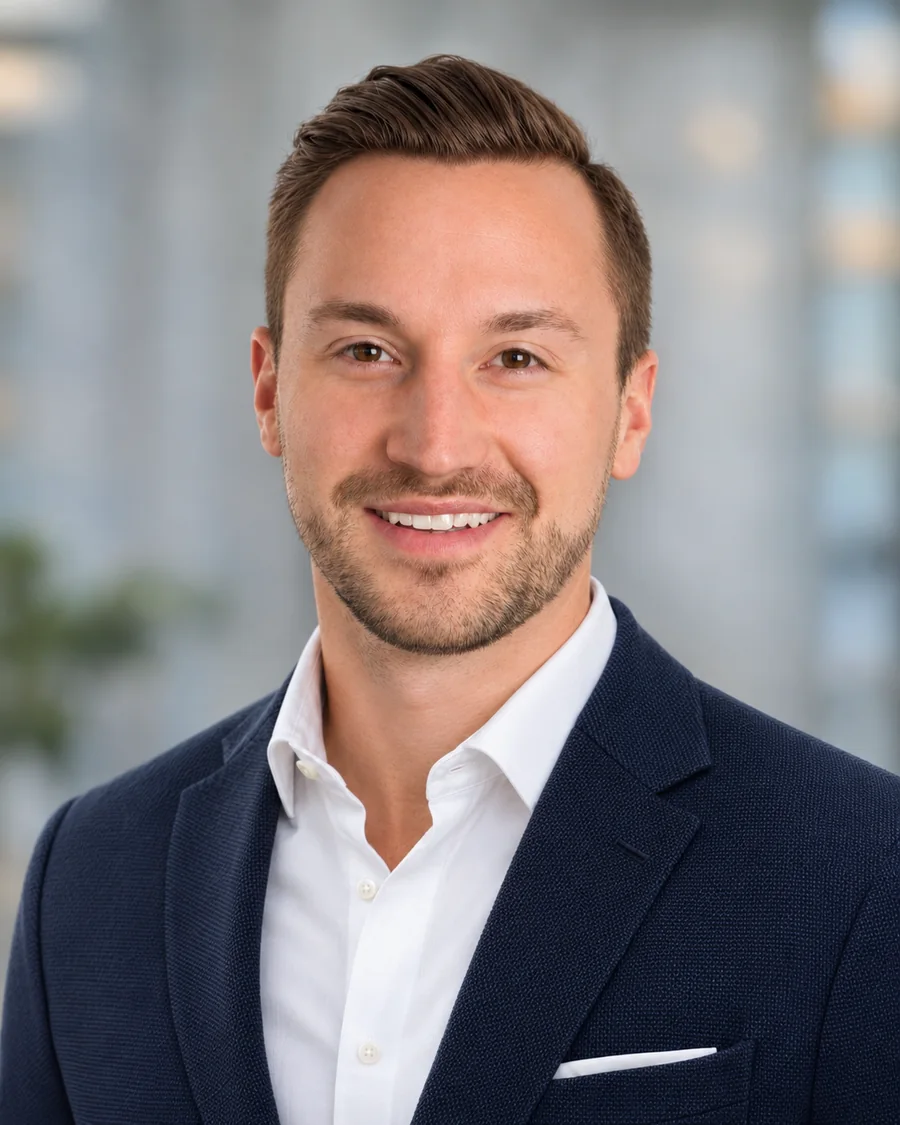
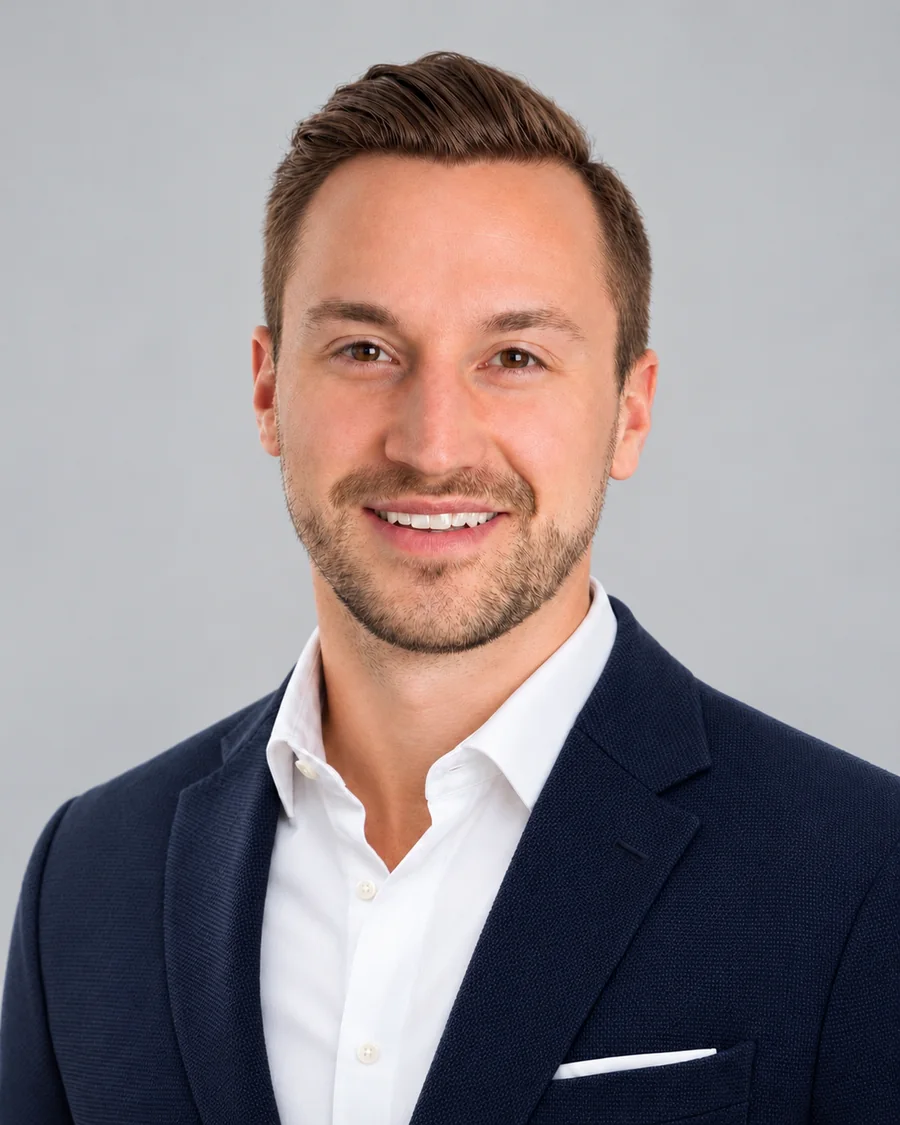
About page: update headshot (grey background)
Claude-Session: https://claude.ai/code/session_013t7RMRYrLPNuaSVDoiEDWE

diff --git a/about.html b/about.html
@@ -1,3 +1,3 @@
-<!doctype html><html lang="en-CA"><head><meta charset="utf-8"><meta name="viewport" content="width=device-width,initial-scale=1"><title>About Robert Johnson | GTA Industrial Real Estate | RGJ Commercial</title><meta name="description" content="Robert Johnson is a GTA industrial sale and leasing specialist with Lennard Commercial Realty, Brokerage. In commercial real estate since 2014, with 200+ transactions, over 2 million square feet and more than $1 billion in value closed."><link rel="preconnect" href="https://fonts.googleapis.com"><link rel="preconnect" href="https://fonts.gstatic.com" crossorigin><link href="https://fonts.googleapis.com/css2?family=DM+Sans:wght@400;500;600;700&family=Orbitron:wght@700;800;900&display=swap" rel="stylesheet"><link rel="stylesheet" href="styles.css"><link rel="canonical" href="https://rgjcommercial.com/about.html"><meta property="og:site_name" content="RGJ Commercial"><meta property="og:locale" content="en_CA"><script type="application/ld+json">{"@context": "https://schema.org", "@type": "ProfilePage", "url": "https://rgjcommercial.com/about.html", "name": "About Robert Johnson | GTA Industrial Real Estate | RGJ Commercial", "inLanguage": "en-CA", "mainEntity": {"@type": "Person", "name": "Robert Johnson", "jobTitle": "Vice President, Sales Representative", "worksFor": {"@type": "RealEstateAgent", "name": "Lennard Commercial Realty, Brokerage", "address": {"@type": "PostalAddress", "streetAddress": "209–1 Yorkdale Road", "addressLocality": "Toronto", "addressRegion": "ON", "postalCode": "M6A 3A1", "addressCountry": "CA"}}, "email": "rjohnson@lennard.com", "telephone": "+1-647-328-4929", "areaServed": ["Mississauga", "Brampton", "Etobicoke", "Oakville", "Burlington", "Vaughan", "Greater Toronto Area"], "knowsAbout": ["Industrial leasing", "Industrial sales", "Tenant representation", "Sale-leaseback", "Industrial investment"], "sameAs": ["https://www.linkedin.com/in/commercialrealestategta/"], "image": "https://rgjcommercial.com/robert-johnson-headshot.webp"}}</script><link rel="stylesheet" href="mobile.css"><script src="mobile-nav.js" defer></script><style>.timeline{display:grid;gap:0;margin:30px 0;max-width:900px}.timeline div{display:grid;grid-template-columns:150px 1fr;gap:20px;padding:20px 0;border-top:1px solid #d3c5b8}.timeline b{color:#925b36;font-size:14px;letter-spacing:.04em}.timeline h3{margin:0 0 6px;font-size:19px}.timeline p{margin:0}.stat-row{display:grid;grid-template-columns:repeat(4,minmax(0,1fr));gap:18px;margin:30px 0}.stat-row div{background:#202328;color:#F4F1ED;padding:24px;border-top:3px solid #B17B56}.stat-row strong{display:block;font-family:Georgia,serif;font-size:34px;color:#F4F1ED}.stat-row span{font-size:13px;color:#d9cfc4}@media(max-width:700px){.timeline div{grid-template-columns:1fr;gap:6px}.stat-row{grid-template-columns:1fr 1fr}}.deals{width:100%;max-width:980px;border-collapse:collapse;margin:26px 0;background:#fff}.deals th,.deals td{padding:16px 18px;border-bottom:1px solid #e2d8cd;text-align:left;font-size:15px}.deals thead th{background:#202328;color:#F4F1ED;font-size:12px;letter-spacing:.08em;text-transform:uppercase}.deals tbody th span{display:block;font-weight:400;color:#575D64;font-size:13px;margin-top:3px}.deals td{white-space:nowrap}.deal-tag{display:inline-block;margin:2px 4px 2px 0;padding:5px 10px;border:1px solid #B17B56;color:#925b36;font-size:12px;letter-spacing:.04em;text-transform:uppercase}@media(max-width:600px){.deals th,.deals td{padding:12px 10px;font-size:14px}}.more-deals{max-width:980px;margin:-6px 0 28px}.more-deals h3{font-size:13px;letter-spacing:.08em;text-transform:uppercase;color:#575D64;margin:0 0 8px}.more-deals ul{list-style:none;margin:0;padding:0}.more-deals li{font-size:14px;color:#575D64;padding:7px 0;border-bottom:1px solid #ddd2c6}.more-deals strong{color:#202328;font-weight:600}.deal-carousel{container-type:inline-size;overflow:hidden;max-width:1180px;margin:28px 0 22px;-webkit-mask-image:linear-gradient(90deg,transparent,#000 4%,#000 96%,transparent);mask-image:linear-gradient(90deg,transparent,#000 4%,#000 96%,transparent)}.deal-track{--per:3;display:flex;list-style:none;margin:0;padding:0;width:max-content;animation:deal-roll 132s linear infinite}.deal-carousel:hover .deal-track,.deal-carousel:focus-within .deal-track{animation-play-state:paused}.deal-card{flex:0 0 calc((100cqw - (var(--per) - 1) * 16px) / var(--per));box-sizing:border-box;margin-right:16px;background:#fff;border-top:3px solid #B17B56;padding:24px 22px 22px;min-height:190px;display:flex;flex-direction:column}.deal-size{font-family:Georgia,serif;font-size:clamp(28px,3vw,38px);color:#202328;letter-spacing:-.02em;line-height:1.1}.deal-size small{font-size:.45em;letter-spacing:0;color:#575D64}.deal-card h3{font-size:16px;margin:16px 0 4px;line-height:1.35}.deal-card p{margin:0 0 16px;font-size:13px;color:#575D64}.deal-tags{margin-top:auto}@keyframes deal-roll{from{transform:translateX(0)}to{transform:translateX(-50%)}}@media(max-width:900px){.deal-track{--per:2;animation-duration:110s}}@media(max-width:520px){.deal-track{--per:1;animation-duration:100s}.deal-card{flex-basis:calc(86cqw)}}@media(prefers-reduced-motion:reduce){.deal-carousel{overflow-x:auto;-webkit-mask-image:none;mask-image:none}.deal-track{animation:none}.deal-card[aria-hidden]{display:none}}.deal-featured{list-style:none;margin:28px 0 8px;padding:0;display:grid;grid-template-columns:repeat(4,minmax(0,1fr));gap:16px;max-width:1180px}.deal-featured .deal-card{margin:0;background:#202328;border-top-color:#B17B56}.deal-featured .deal-size{color:#F4F1ED;font-size:clamp(30px,3.2vw,42px)}.deal-featured .deal-size small,.deal-featured p{color:#d4cbc2}.deal-featured h3{color:#F4F1ED}.deal-featured .deal-tag{color:#e0b593;border-color:#B17B56}.deal-more-head{font-size:13px;letter-spacing:.08em;text-transform:uppercase;color:#575D64;margin:30px 0 0}@media(max-width:900px){.deal-featured{grid-template-columns:repeat(2,minmax(0,1fr))}}@media(max-width:520px){.deal-featured{grid-template-columns:1fr}}.about-hero{display:grid;grid-template-columns:minmax(0,1.5fr) minmax(240px,.8fr);gap:56px;align-items:center}.about-portrait{margin:0;position:relative;isolation:isolate;max-width:400px;justify-self:end;width:100%}.about-portrait img{display:block;width:100%;height:auto;aspect-ratio:4/5;object-fit:cover;object-position:center 20%;border-bottom:4px solid #B17B56}.about-portrait:before{content:"";position:absolute;inset:16px -16px -16px 16px;border:1px solid rgba(177,123,86,.55);z-index:-1}@media(max-width:860px){.about-hero{grid-template-columns:1fr;gap:34px}.about-portrait{justify-self:start;max-width:300px;order:-1}.about-portrait:before{display:none}}</style></head><body><header class="site-header"><a class="brand-lockup" href="index.html" aria-label="RGJ Commercial home"><span class="brand-symbol" aria-hidden="true"><i></i><i></i></span><span class="brand-initials">RGJ</span><span class="brand-rule"></span><span class="brand-descriptor"><strong>COMMERCIAL</strong><small>REAL ESTATE ADVISORY</small></span></a><nav aria-label="Main navigation"><a href="index.html">Home</a><a href="services.html">Services</a><a href="properties.html">Search Properties</a><a href="insights.html">Market Insight</a><a href="about.html" class="active" aria-current="page">About</a><a href="contact.html">Contact</a><a href="subscribe.html">Subscribe</a></nav></header><main><section class="industrial-hero about-hero"><div class="about-hero-text"><div class="eyebrow">About RGJ Commercial</div><h1>Robert Johnson</h1><p><strong>GTA Industrial Sale &amp; Leasing Specialist</strong> · Vice President, Sales Representative, Lennard Commercial Realty, Brokerage</p><p>Since 2014, Rob has helped business owners, tenants, landlords and investors buy, sell and lease industrial buildings across the Greater Toronto Area, completing more than 200 transactions totalling over 2 million square feet and more than $1 billion in value. RGJ Commercial is his advisory practice: one experienced advisor, personally involved from the first conversation to the closing, backed by Lennard's research and reach.</p><a class="cta" href="contact.html">Start a Conversation →</a></div><figure class="about-portrait"><img src="robert-johnson-headshot.webp" width="900" height="1125" alt="Robert Johnson, GTA industrial sale and leasing specialist, RGJ Commercial" fetchpriority="high"></figure></section>
+<!doctype html><html lang="en-CA"><head><meta charset="utf-8"><meta name="viewport" content="width=device-width,initial-scale=1"><title>About Robert Johnson | GTA Industrial Real Estate | RGJ Commercial</title><meta name="description" content="Robert Johnson is a GTA industrial sale and leasing specialist with Lennard Commercial Realty, Brokerage. In commercial real estate since 2014, with 200+ transactions, over 2 million square feet and more than $1 billion in value closed."><link rel="preconnect" href="https://fonts.googleapis.com"><link rel="preconnect" href="https://fonts.gstatic.com" crossorigin><link href="https://fonts.googleapis.com/css2?family=DM+Sans:wght@400;500;600;700&family=Orbitron:wght@700;800;900&display=swap" rel="stylesheet"><link rel="stylesheet" href="styles.css"><link rel="canonical" href="https://rgjcommercial.com/about.html"><meta property="og:site_name" content="RGJ Commercial"><meta property="og:locale" content="en_CA"><script type="application/ld+json">{"@context": "https://schema.org", "@type": "ProfilePage", "url": "https://rgjcommercial.com/about.html", "name": "About Robert Johnson | GTA Industrial Real Estate | RGJ Commercial", "inLanguage": "en-CA", "mainEntity": {"@type": "Person", "name": "Robert Johnson", "jobTitle": "Vice President, Sales Representative", "worksFor": {"@type": "RealEstateAgent", "name": "Lennard Commercial Realty, Brokerage", "address": {"@type": "PostalAddress", "streetAddress": "209–1 Yorkdale Road", "addressLocality": "Toronto", "addressRegion": "ON", "postalCode": "M6A 3A1", "addressCountry": "CA"}}, "email": "rjohnson@lennard.com", "telephone": "+1-647-328-4929", "areaServed": ["Mississauga", "Brampton", "Etobicoke", "Oakville", "Burlington", "Vaughan", "Greater Toronto Area"], "knowsAbout": ["Industrial leasing", "Industrial sales", "Tenant representation", "Sale-leaseback", "Industrial investment"], "sameAs": ["https://www.linkedin.com/in/commercialrealestategta/"], "image": "https://rgjcommercial.com/robert-johnson-headshot.webp"}}</script><link rel="stylesheet" href="mobile.css"><script src="mobile-nav.js" defer></script><style>.timeline{display:grid;gap:0;margin:30px 0;max-width:900px}.timeline div{display:grid;grid-template-columns:150px 1fr;gap:20px;padding:20px 0;border-top:1px solid #d3c5b8}.timeline b{color:#925b36;font-size:14px;letter-spacing:.04em}.timeline h3{margin:0 0 6px;font-size:19px}.timeline p{margin:0}.stat-row{display:grid;grid-template-columns:repeat(4,minmax(0,1fr));gap:18px;margin:30px 0}.stat-row div{background:#202328;color:#F4F1ED;padding:24px;border-top:3px solid #B17B56}.stat-row strong{display:block;font-family:Georgia,serif;font-size:34px;color:#F4F1ED}.stat-row span{font-size:13px;color:#d9cfc4}@media(max-width:700px){.timeline div{grid-template-columns:1fr;gap:6px}.stat-row{grid-template-columns:1fr 1fr}}.deals{width:100%;max-width:980px;border-collapse:collapse;margin:26px 0;background:#fff}.deals th,.deals td{padding:16px 18px;border-bottom:1px solid #e2d8cd;text-align:left;font-size:15px}.deals thead th{background:#202328;color:#F4F1ED;font-size:12px;letter-spacing:.08em;text-transform:uppercase}.deals tbody th span{display:block;font-weight:400;color:#575D64;font-size:13px;margin-top:3px}.deals td{white-space:nowrap}.deal-tag{display:inline-block;margin:2px 4px 2px 0;padding:5px 10px;border:1px solid #B17B56;color:#925b36;font-size:12px;letter-spacing:.04em;text-transform:uppercase}@media(max-width:600px){.deals th,.deals td{padding:12px 10px;font-size:14px}}.more-deals{max-width:980px;margin:-6px 0 28px}.more-deals h3{font-size:13px;letter-spacing:.08em;text-transform:uppercase;color:#575D64;margin:0 0 8px}.more-deals ul{list-style:none;margin:0;padding:0}.more-deals li{font-size:14px;color:#575D64;padding:7px 0;border-bottom:1px solid #ddd2c6}.more-deals strong{color:#202328;font-weight:600}.deal-carousel{container-type:inline-size;overflow:hidden;max-width:1180px;margin:28px 0 22px;-webkit-mask-image:linear-gradient(90deg,transparent,#000 4%,#000 96%,transparent);mask-image:linear-gradient(90deg,transparent,#000 4%,#000 96%,transparent)}.deal-track{--per:3;display:flex;list-style:none;margin:0;padding:0;width:max-content;animation:deal-roll 132s linear infinite}.deal-carousel:hover .deal-track,.deal-carousel:focus-within .deal-track{animation-play-state:paused}.deal-card{flex:0 0 calc((100cqw - (var(--per) - 1) * 16px) / var(--per));box-sizing:border-box;margin-right:16px;background:#fff;border-top:3px solid #B17B56;padding:24px 22px 22px;min-height:190px;display:flex;flex-direction:column}.deal-size{font-family:Georgia,serif;font-size:clamp(28px,3vw,38px);color:#202328;letter-spacing:-.02em;line-height:1.1}.deal-size small{font-size:.45em;letter-spacing:0;color:#575D64}.deal-card h3{font-size:16px;margin:16px 0 4px;line-height:1.35}.deal-card p{margin:0 0 16px;font-size:13px;color:#575D64}.deal-tags{margin-top:auto}@keyframes deal-roll{from{transform:translateX(0)}to{transform:translateX(-50%)}}@media(max-width:900px){.deal-track{--per:2;animation-duration:110s}}@media(max-width:520px){.deal-track{--per:1;animation-duration:100s}.deal-card{flex-basis:calc(86cqw)}}@media(prefers-reduced-motion:reduce){.deal-carousel{overflow-x:auto;-webkit-mask-image:none;mask-image:none}.deal-track{animation:none}.deal-card[aria-hidden]{display:none}}.deal-featured{list-style:none;margin:28px 0 8px;padding:0;display:grid;grid-template-columns:repeat(4,minmax(0,1fr));gap:16px;max-width:1180px}.deal-featured .deal-card{margin:0;background:#202328;border-top-color:#B17B56}.deal-featured .deal-size{color:#F4F1ED;font-size:clamp(30px,3.2vw,42px)}.deal-featured .deal-size small,.deal-featured p{color:#d4cbc2}.deal-featured h3{color:#F4F1ED}.deal-featured .deal-tag{color:#e0b593;border-color:#B17B56}.deal-more-head{font-size:13px;letter-spacing:.08em;text-transform:uppercase;color:#575D64;margin:30px 0 0}@media(max-width:900px){.deal-featured{grid-template-columns:repeat(2,minmax(0,1fr))}}@media(max-width:520px){.deal-featured{grid-template-columns:1fr}}.about-hero{display:grid;grid-template-columns:minmax(0,1.5fr) minmax(240px,.8fr);gap:56px;align-items:center}.about-portrait{margin:0;position:relative;isolation:isolate;max-width:400px;justify-self:end;width:100%}.about-portrait img{display:block;width:100%;height:auto;aspect-ratio:4/5;object-fit:cover;object-position:center 20%;border-bottom:4px solid #B17B56}.about-portrait:before{content:"";position:absolute;inset:16px -16px -16px 16px;border:1px solid rgba(177,123,86,.55);z-index:-1}@media(max-width:860px){.about-hero{grid-template-columns:1fr;gap:34px}.about-portrait{justify-self:start;max-width:300px;order:-1}.about-portrait:before{display:none}}</style></head><body><header class="site-header"><a class="brand-lockup" href="index.html" aria-label="RGJ Commercial home"><span class="brand-symbol" aria-hidden="true"><i></i><i></i></span><span class="brand-initials">RGJ</span><span class="brand-rule"></span><span class="brand-descriptor"><strong>COMMERCIAL</strong><small>REAL ESTATE ADVISORY</small></span></a><nav aria-label="Main navigation"><a href="index.html">Home</a><a href="services.html">Services</a><a href="properties.html">Search Properties</a><a href="insights.html">Market Insight</a><a href="about.html" class="active" aria-current="page">About</a><a href="contact.html">Contact</a><a href="subscribe.html">Subscribe</a></nav></header><main><section class="industrial-hero about-hero"><div class="about-hero-text"><div class="eyebrow">About RGJ Commercial</div><h1>Robert Johnson</h1><p><strong>GTA Industrial Sale &amp; Leasing Specialist</strong> · Vice President, Sales Representative, Lennard Commercial Realty, Brokerage</p><p>Since 2014, Rob has helped business owners, tenants, landlords and investors buy, sell and lease industrial buildings across the Greater Toronto Area, completing more than 200 transactions totalling over 2 million square feet and more than $1 billion in value. RGJ Commercial is his advisory practice: one experienced advisor, personally involved from the first conversation to the closing, backed by Lennard's research and reach.</p><a class="cta" href="contact.html">Start a Conversation →</a></div><figure class="about-portrait"><img src="robert-johnson-headshot.webp?v=2" width="900" height="1125" alt="Robert Johnson, GTA industrial sale and leasing specialist, RGJ Commercial" fetchpriority="high"></figure></section>
 <section class="industrial-content"><div class="stat-row"><div><strong>2014</strong><span>in GTA commercial real estate since</span></div><div><strong>200+</strong><span>transactions completed</span></div><div><strong>2M+ SF</strong><span>leased and sold</span></div><div><strong>$1B+</strong><span>in transaction value closed</span></div></div></section><section class="industrial-content industrial-light"><div class="eyebrow">Highlighted Transactions</div><h2>A track record across the GTA.</h2><ul class="deal-featured"><li class="deal-card deal-top"><span class="deal-size">122,320<small> SF</small></span><h3>6900 Maritz Drive</h3><p>Mississauga</p><div class="deal-tags"><b class="deal-tag">Leased</b></div></li><li class="deal-card deal-top"><span class="deal-size">67,300<small> SF</small></span><h3>3610 Mavis Road</h3><p>Mississauga</p><div class="deal-tags"><b class="deal-tag">Sold</b></div></li><li class="deal-card deal-top"><span class="deal-size">49,136<small> SF</small></span><h3>6060 Burnside Court</h3><p>Mississauga</p><div class="deal-tags"><b class="deal-tag">Leased</b></div></li><li class="deal-card deal-top"><span class="deal-size">40,117<small> SF</small></span><h3>1150 Corporate Drive</h3><p>Burlington</p><div class="deal-tags"><b class="deal-tag">Leased</b></div></li></ul><h3 class="deal-more-head">More transactions</h3><div class="deal-carousel" role="region" aria-label="Highlighted transactions"><ul class="deal-track"><li class="deal-card"><span class="deal-size">40,000<small> SF</small></span><h3>5150 Timberlea Boulevard</h3><p>Mississauga</p><div class="deal-tags"><b class="deal-tag">Sold</b></div></li><li class="deal-card"><span class="deal-size">38,760<small> SF</small></span><h3>1700 Sismet Road</h3><p>Mississauga</p><div class="deal-tags"><b class="deal-tag">Sold</b></div></li><li class="deal-card"><span class="deal-size">32,200<small> SF</small></span><h3>3665 Odyssey Drive</h3><p>Mississauga</p><div class="deal-tags"><b class="deal-tag">Leased</b></div></li><li class="deal-card"><span class="deal-size">31,251<small> SF</small></span><h3>5033 Maingate Drive</h3><p>Mississauga</p><div class="deal-tags"><b class="deal-tag">Leased</b></div></li><li class="deal-card"><span class="deal-size">29,327<small> SF</small></span><h3>7429 Ninth Line, Unit C</h3><p>Mississauga</p><div class="deal-tags"><b class="deal-tag">Leased</b></div></li><li class="deal-card"><span class="deal-size">28,431<small> SF</small></span><h3>7361 Pacific Road</h3><p>Oakville</p><div class="deal-tags"><b class="deal-tag">Sold</b></div></li><li class="deal-card"><span class="deal-size">22,419<small> SF</small></span><h3>6235–6245 Danville Road</h3><p>Mississauga</p><div class="deal-tags"><b class="deal-tag">Sold</b></div></li><li class="deal-card"><span class="deal-size">21,168<small> SF</small></span><h3>2475 Tedlo Street</h3><p>Mississauga</p><div class="deal-tags"><b class="deal-tag">Leased</b></div></li><li class="deal-card"><span class="deal-size">21,109<small> SF</small></span><h3>15 Canmotor Avenue</h3><p>Etobicoke</p><div class="deal-tags"><b class="deal-tag">Sold</b></div></li><li class="deal-card"><span class="deal-size">1,424<small> SF</small></span><h3>760 Laurentian Drive, Unit 17</h3><p>Burlington</p><div class="deal-tags"><b class="deal-tag">Sold</b></div></li><li class="deal-card"><span class="deal-size">18,824<small> SF</small></span><h3>18 Hedgedale Road</h3><p>Brampton</p><div class="deal-tags"><b class="deal-tag">Lease Renewal</b></div></li><li class="deal-card"><span class="deal-size">16,000<small> SF</small></span><h3>3425 Semenyk Court</h3><p>Mississauga</p><div class="deal-tags"><b class="deal-tag">Sold</b></div></li><li class="deal-card"><span class="deal-size">40,000<small> SF</small></span><h3>5150 Timberlea Boulevard</h3><p>Mississauga</p><div class="deal-tags"><b class="deal-tag">Leased</b></div></li><li class="deal-card"><span class="deal-size">10,110<small> SF</small></span><h3>285 Watline Avenue</h3><p>Mississauga</p><div class="deal-tags"><b class="deal-tag">Leased</b></div></li><li class="deal-card"><span class="deal-size">9,846<small> SF</small></span><h3>2495 Meadowpine Boulevard, Unit 2</h3><p>Mississauga</p><div class="deal-tags"><b class="deal-tag">Leased</b></div></li><li class="deal-card"><span class="deal-size">6,106<small> SF</small></span><h3>5033 Maingate Drive, Unit 1</h3><p>Mississauga</p><div class="deal-tags"><b class="deal-tag">Leased</b></div></li><li class="deal-card"><span class="deal-size">4,820<small> SF</small></span><h3>6355 Danville Road, Unit 8</h3><p>Mississauga</p><div class="deal-tags"><b class="deal-tag">Leased</b></div></li><li class="deal-card"><span class="deal-size">29,327<small> SF</small></span><h3>7429 Ninth Line, Unit C</h3><p>Mississauga</p><div class="deal-tags"><b class="deal-tag">Subleased</b></div></li><li class="deal-card"><span class="deal-size">3,573<small> SF</small></span><h3>3620A Laird Road, Unit 13</h3><p>Mississauga</p><div class="deal-tags"><b class="deal-tag">Lease Renewal</b></div></li><li class="deal-card"><span class="deal-size">2,970<small> SF</small></span><h3>1393 North Service Road, Unit 104</h3><p>Oakville</p><div class="deal-tags"><b class="deal-tag">Leased</b></div></li><li class="deal-card"><span class="deal-size">2,160<small> SF</small></span><h3>6720 Davand Drive, Unit 8</h3><p>Mississauga</p><div class="deal-tags"><b class="deal-tag">Sold</b></div></li><li class="deal-card"><span class="deal-size">1,971<small> SF</small></span><h3>760 Laurentian Drive, Unit 7</h3><p>Burlington</p><div class="deal-tags"><b class="deal-tag">Leased</b></div></li><li class="deal-card" aria-hidden="true"><span class="deal-size">40,000<small> SF</small></span><h3>5150 Timberlea Boulevard</h3><p>Mississauga</p><div class="deal-tags"><b class="deal-tag">Sold</b></div></li><li class="deal-card" aria-hidden="true"><span class="deal-size">38,760<small> SF</small></span><h3>1700 Sismet Road</h3><p>Mississauga</p><div class="deal-tags"><b class="deal-tag">Sold</b></div></li><li class="deal-card" aria-hidden="true"><span class="deal-size">32,200<small> SF</small></span><h3>3665 Odyssey Drive</h3><p>Mississauga</p><div class="deal-tags"><b class="deal-tag">Leased</b></div></li><li class="deal-card" aria-hidden="true"><span class="deal-size">31,251<small> SF</small></span><h3>5033 Maingate Drive</h3><p>Mississauga</p><div class="deal-tags"><b class="deal-tag">Leased</b></div></li><li class="deal-card" aria-hidden="true"><span class="deal-size">29,327<small> SF</small></span><h3>7429 Ninth Line, Unit C</h3><p>Mississauga</p><div class="deal-tags"><b class="deal-tag">Leased</b></div></li><li class="deal-card" aria-hidden="true"><span class="deal-size">28,431<small> SF</small></span><h3>7361 Pacific Road</h3><p>Oakville</p><div class="deal-tags"><b class="deal-tag">Sold</b></div></li><li class="deal-card" aria-hidden="true"><span class="deal-size">22,419<small> SF</small></span><h3>6235–6245 Danville Road</h3><p>Mississauga</p><div class="deal-tags"><b class="deal-tag">Sold</b></div></li><li class="deal-card" aria-hidden="true"><span class="deal-size">21,168<small> SF</small></span><h3>2475 Tedlo Street</h3><p>Mississauga</p><div class="deal-tags"><b class="deal-tag">Leased</b></div></li><li class="deal-card" aria-hidden="true"><span class="deal-size">21,109<small> SF</small></span><h3>15 Canmotor Avenue</h3><p>Etobicoke</p><div class="deal-tags"><b class="deal-tag">Sold</b></div></li><li class="deal-card" aria-hidden="true"><span class="deal-size">1,424<small> SF</small></span><h3>760 Laurentian Drive, Unit 17</h3><p>Burlington</p><div class="deal-tags"><b class="deal-tag">Sold</b></div></li><li class="deal-card" aria-hidden="true"><span class="deal-size">18,824<small> SF</small></span><h3>18 Hedgedale Road</h3><p>Brampton</p><div class="deal-tags"><b class="deal-tag">Lease Renewal</b></div></li><li class="deal-card" aria-hidden="true"><span class="deal-size">16,000<small> SF</small></span><h3>3425 Semenyk Court</h3><p>Mississauga</p><div class="deal-tags"><b class="deal-tag">Sold</b></div></li><li class="deal-card" aria-hidden="true"><span class="deal-size">40,000<small> SF</small></span><h3>5150 Timberlea Boulevard</h3><p>Mississauga</p><div class="deal-tags"><b class="deal-tag">Leased</b></div></li><li class="deal-card" aria-hidden="true"><span class="deal-size">10,110<small> SF</small></span><h3>285 Watline Avenue</h3><p>Mississauga</p><div class="deal-tags"><b class="deal-tag">Leased</b></div></li><li class="deal-card" aria-hidden="true"><span class="deal-size">9,846<small> SF</small></span><h3>2495 Meadowpine Boulevard, Unit 2</h3><p>Mississauga</p><div class="deal-tags"><b class="deal-tag">Leased</b></div></li><li class="deal-card" aria-hidden="true"><span class="deal-size">6,106<small> SF</small></span><h3>5033 Maingate Drive, Unit 1</h3><p>Mississauga</p><div class="deal-tags"><b class="deal-tag">Leased</b></div></li><li class="deal-card" aria-hidden="true"><span class="deal-size">4,820<small> SF</small></span><h3>6355 Danville Road, Unit 8</h3><p>Mississauga</p><div class="deal-tags"><b class="deal-tag">Leased</b></div></li><li class="deal-card" aria-hidden="true"><span class="deal-size">29,327<small> SF</small></span><h3>7429 Ninth Line, Unit C</h3><p>Mississauga</p><div class="deal-tags"><b class="deal-tag">Subleased</b></div></li><li class="deal-card" aria-hidden="true"><span class="deal-size">3,573<small> SF</small></span><h3>3620A Laird Road, Unit 13</h3><p>Mississauga</p><div class="deal-tags"><b class="deal-tag">Lease Renewal</b></div></li><li class="deal-card" aria-hidden="true"><span class="deal-size">2,970<small> SF</small></span><h3>1393 North Service Road, Unit 104</h3><p>Oakville</p><div class="deal-tags"><b class="deal-tag">Leased</b></div></li><li class="deal-card" aria-hidden="true"><span class="deal-size">2,160<small> SF</small></span><h3>6720 Davand Drive, Unit 8</h3><p>Mississauga</p><div class="deal-tags"><b class="deal-tag">Sold</b></div></li><li class="deal-card" aria-hidden="true"><span class="deal-size">1,971<small> SF</small></span><h3>760 Laurentian Drive, Unit 7</h3><p>Burlington</p><div class="deal-tags"><b class="deal-tag">Leased</b></div></li></ul></div><a class="cta" href="contact.html">Discuss Your Requirement →</a></section><section class="industrial-content"><div class="eyebrow">How Rob Works</div><h2>What clients can expect.</h2><div class="industrial-columns"><article><h3>Direct, senior attention</h3><p>You work with Rob from start to finish, not a junior handoff. One point of contact who knows your requirement in detail.</p></article><article><h3>A practical eye on every building</h3><p>Clear advice on shipping, power, clear height, fit-out and what improvements really cost before you commit.</p></article><article><h3>Market intelligence you can use</h3><p>Quarterly GTA industrial data, side-by-side cost comparisons and negotiation built on current evidence, not guesswork.</p></article></div><div class="city-links"><a href="industrial-mississauga.html">Mississauga</a><a href="industrial-brampton.html">Brampton</a><a href="industrial-etobicoke.html">Etobicoke</a><a href="industrial-oakville.html">Oakville</a><a href="industrial-burlington.html">Burlington</a><a href="industrial-vaughan.html">Vaughan</a><a href="industrial-for-lease-gta.html">GTA industrial for lease</a></div></section>
 <section class="industrial-content industrial-light"><div class="eyebrow">Lennard Commercial Realty</div><h2>Independent advice, full-service platform.</h2><p>Rob is a registered Sales Representative with Lennard Commercial Realty, Brokerage, an independent Toronto commercial real estate brokerage. Clients get the personal attention of an advisory practice with the support of a full commercial brokerage behind it.</p><p><a class="cta" href="contact.html">Discuss Your Requirement →</a> &nbsp; <a href="https://www.linkedin.com/in/commercialrealestategta/" target="_blank" rel="noopener" style="color:#925b36;text-decoration:underline">Connect on LinkedIn ↗</a></p></section></main><footer><strong>RGJ COMMERCIAL</strong><nav class="footer-links" aria-label="Footer"><a href="industrial-for-lease-gta.html">For Lease</a><a href="industrial-for-sale-gta.html">For Sale</a><a href="tenant-representation.html">Tenant Representation</a><a href="buyer-representation.html">Buyer Representation</a><a href="seller-representation.html">Seller Representation</a><a href="landlord-representation.html">Landlord Representation</a><a href="insights.html">Market Insight</a><a href="occupancy-cost-calculator.html">Cost Calculator</a><a href="subscribe.html">Subscribe</a></nav><div>Robert Johnson, Sales Representative · Lennard Commercial Realty, Brokerage · 209–1 Yorkdale Road, Toronto, ON M6A 3A1. RGJ Commercial is the advisory brand of Robert Johnson. Not intended to solicit buyers, sellers, landlords or tenants already under contract with another brokerage.</div><div>Contact: <a href="mailto:rjohnson@lennard.com">rjohnson@lennard.com</a> · <a href="tel:+16473284929">647.328.4929</a> · <a href="privacy.html">Privacy</a></div></footer></body></html>
